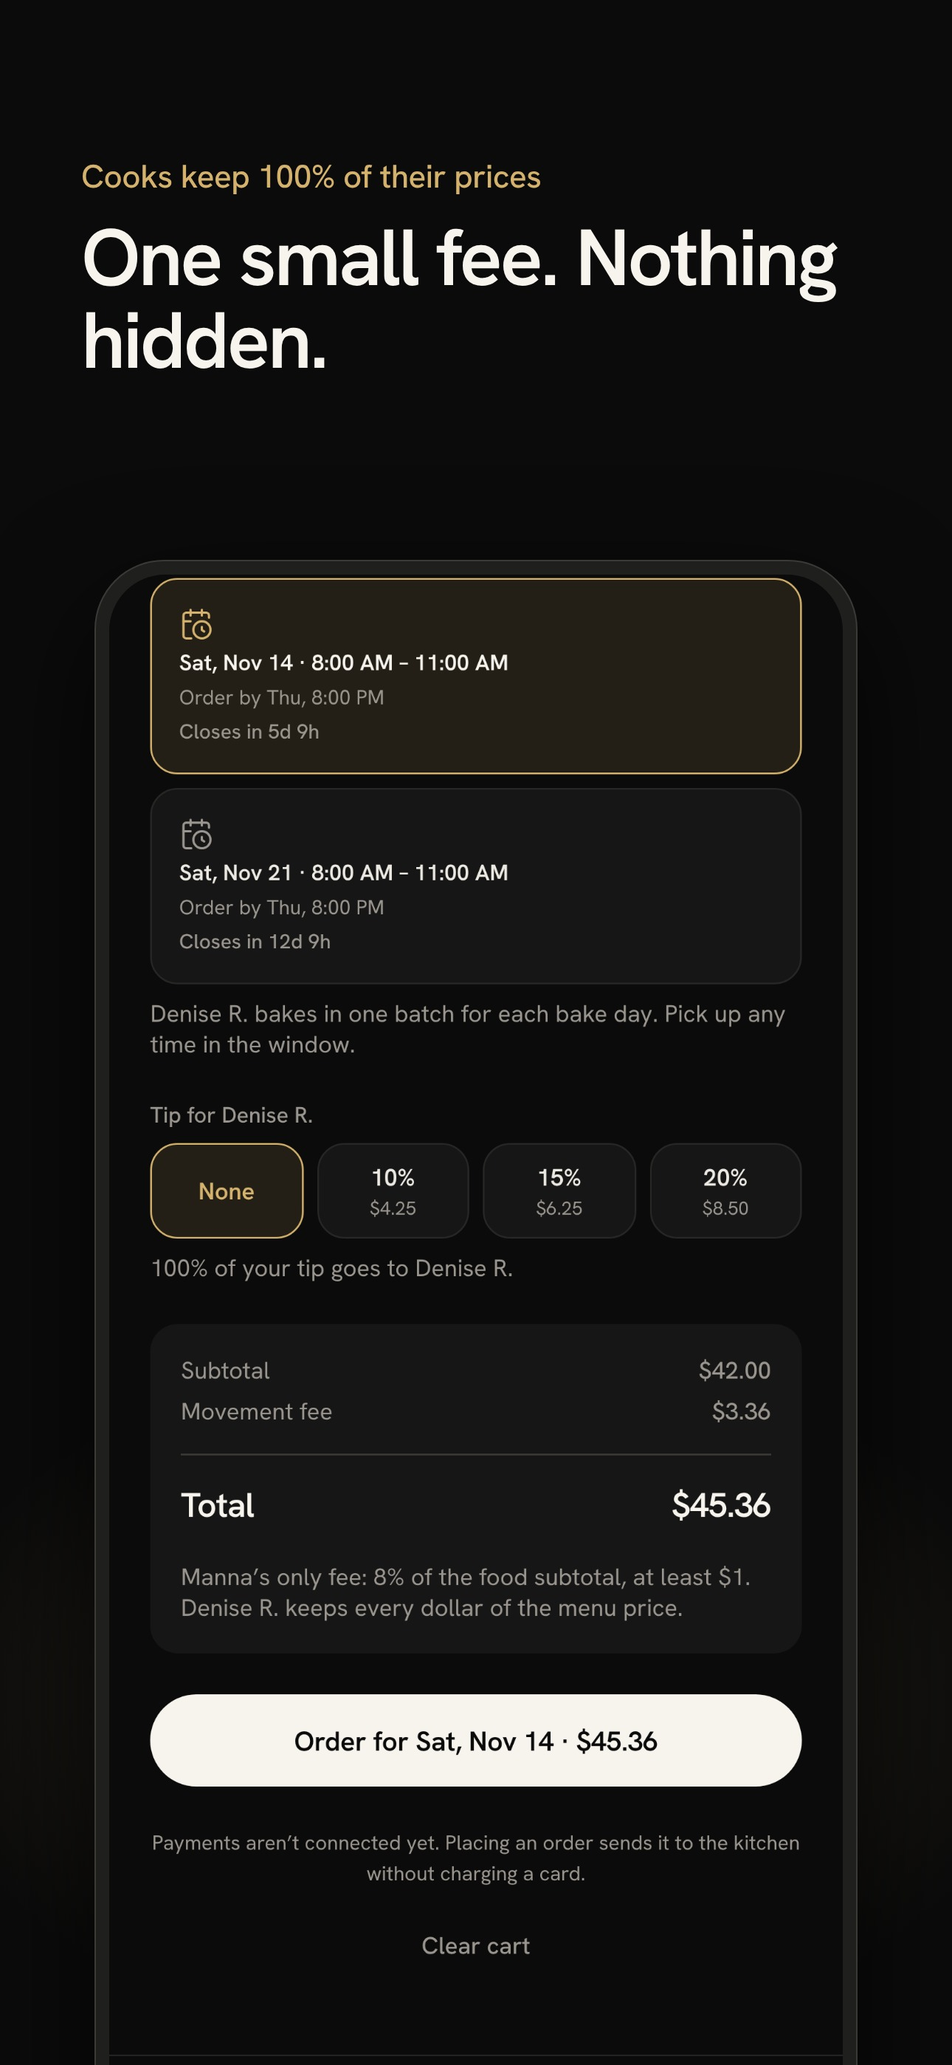
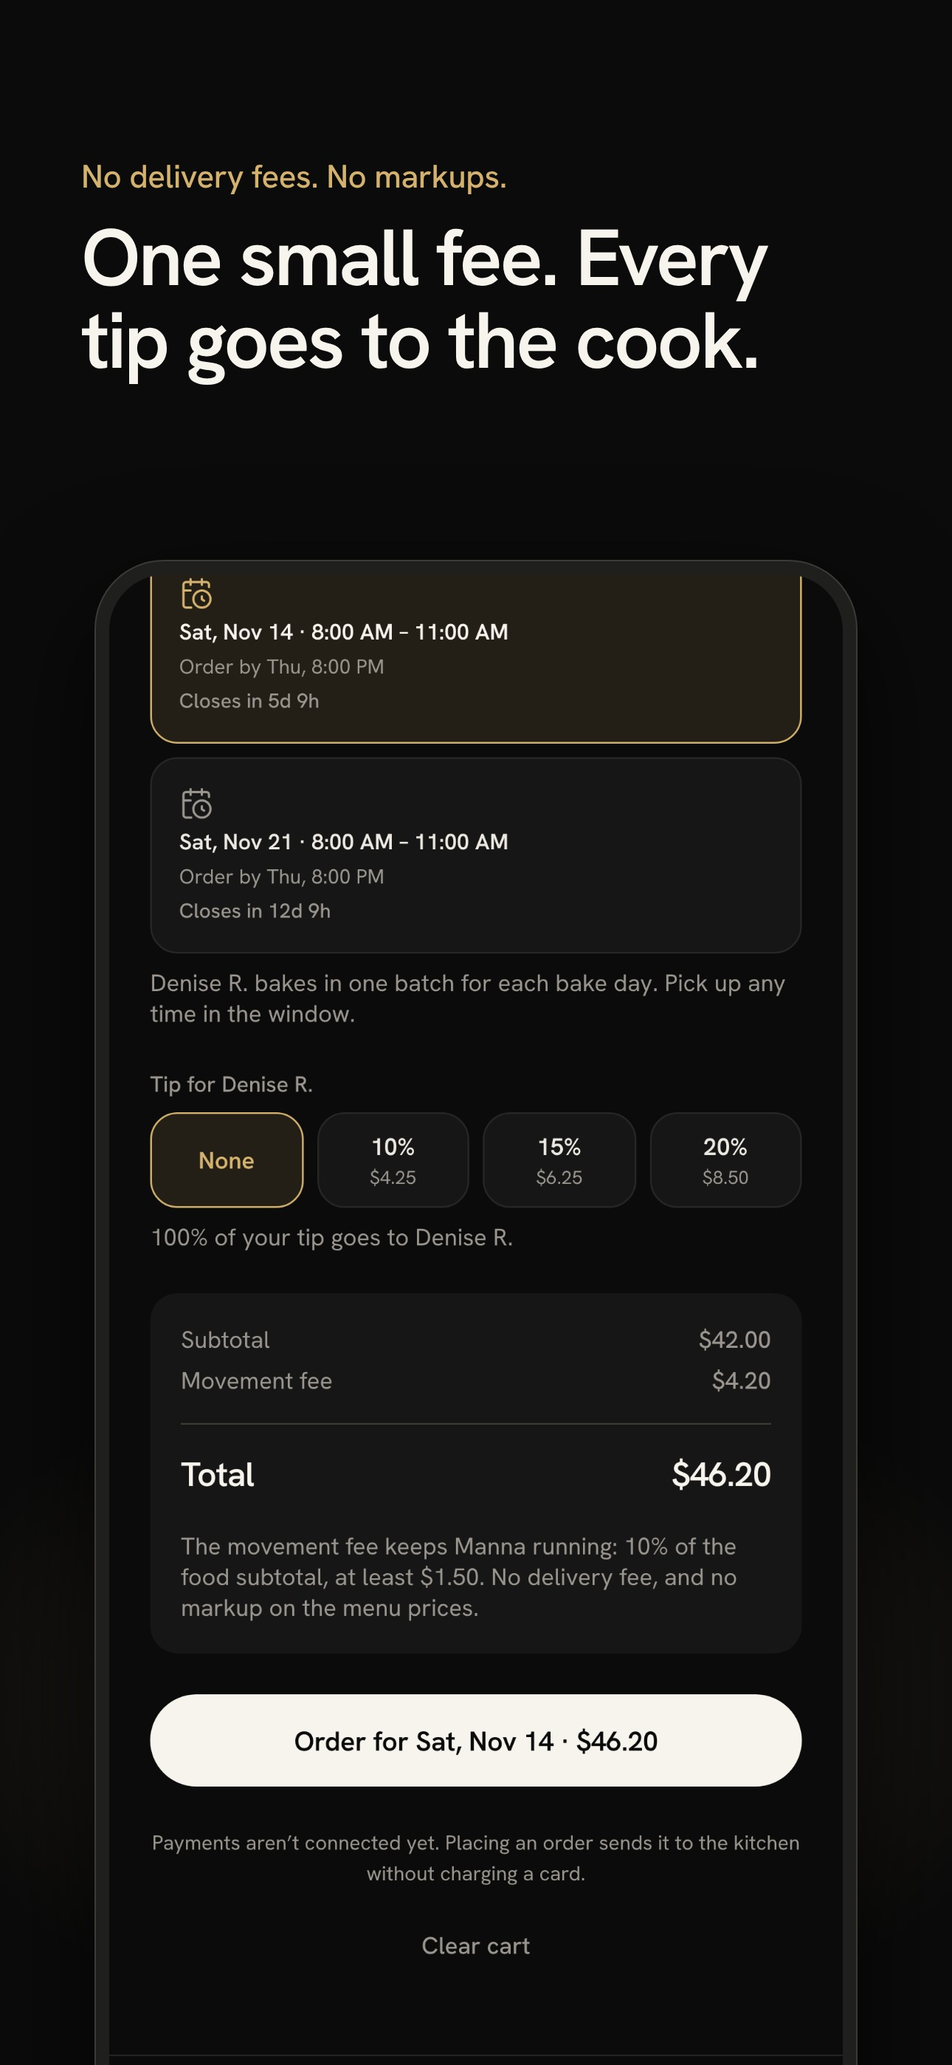
Set launch fees: 10% movement fee and a 5% kitchen fee
Customers pay 10% of the food (at least $1.50) and kitchens pay 5% of
their food sales, with no kitchen fee for a founding kitchen's first
3 months. Tips are never charged. Orders record the kitchen fee, the
cook's dashboard, earnings chart and order cards show what they receive,
and the publish step, terms, Pro page ($15 a month) and docs explain it.
The database computes both fees and tracks when a kitchen went live.

Claude-Session: https://claude.ai/code/session_011wALiCWwyWzSnWzUUk7f3D

diff --git a/src/lib/pricing.ts b/src/lib/pricing.ts
@@ -1,21 +1,67 @@
-import type { Cart, MenuItem, OrderLine } from '@/types';
+import { formatMonthDay } from './orders';
+import type { Cart, MenuItem, Order, OrderLine, Restaurant } from '@/types';
 
 /**
- * Manna's only fee: 8% of the food subtotal, at least $1, paid by the
- * customer. Card processing comes out of it, so kitchens keep 100% of their
- * menu prices. Orders are picked up, so there is no delivery fee.
- * Mirrors movement_fee() in the database.
+ * Manna's fees. Customers pay a movement fee at checkout (10% of the food,
+ * at least $1.50), and kitchens pay 5% of their food sales. Tips are never
+ * charged: every cent goes to the kitchen. Card processing comes out of
+ * Manna's share, and orders are picked up, so there is no delivery fee.
+ * Mirrors movement_fee() and kitchen_fee_rate() in the database.
  */
-export const MOVEMENT_FEE_RATE = 0.08;
-export const MOVEMENT_FEE_MIN_CENTS = 100;
+export const MOVEMENT_FEE_RATE = 0.1;
+export const MOVEMENT_FEE_MIN_CENTS = 150;
 
 export function movementFee(subtotalCents: number): number {
   if (subtotalCents <= 0) return 0;
   return Math.max(Math.round(subtotalCents * MOVEMENT_FEE_RATE), MOVEMENT_FEE_MIN_CENTS);
 }
 
-/** "8%, at least $1", for checkout and the terms. */
-export const MOVEMENT_FEE_TERMS = '8% of the food subtotal, at least $1';
+/** "10%, at least $1.50", for checkout and the terms. */
+export const MOVEMENT_FEE_TERMS = '10% of the food subtotal, at least $1.50';
+
+/** Manna's share of a kitchen's food sales. */
+export const KITCHEN_FEE_RATE = 0.05;
+/** Founding kitchens pay no kitchen fee for their first months on Manna. */
+export const FOUNDING_FEE_FREE_MONTHS = 3;
+
+/** Manna Pro, the optional plan for cooks, once it opens. Sold on the web, not in the app. */
+export const PRO_PRICE_CENTS = 1500;
+
+/** "5% of food sales", for the cook's screens and the terms. */
+export const KITCHEN_FEE_TERMS = '5% of food sales';
+
+/** When a founding kitchen starts paying the kitchen fee, or null if it isn't founding. */
+export function feeFreeUntil(r: Pick<Restaurant, 'founding' | 'createdAt'>): Date | null {
+  if (!r.founding) return null;
+  const until = new Date(r.createdAt);
+  until.setUTCMonth(until.getUTCMonth() + FOUNDING_FEE_FREE_MONTHS);
+  return until;
+}
+
+/** The kitchen fee rate for an order placed at `at`. */
+export function kitchenFeeRate(r: Pick<Restaurant, 'founding' | 'createdAt'>, at: Date): number {
+  const until = feeFreeUntil(r);
+  return until && at < until ? 0 : KITCHEN_FEE_RATE;
+}
+
+export function kitchenFee(subtotalCents: number, rate: number): number {
+  if (subtotalCents <= 0 || rate <= 0) return 0;
+  return Math.round(subtotalCents * rate);
+}
+
+/** How the kitchen fee applies to this kitchen right now, in a line for the cook. */
+export function kitchenFeeNote(r: Pick<Restaurant, 'founding' | 'createdAt'>, now: Date): string {
+  const until = feeFreeUntil(r);
+  if (until && now < until) {
+    return `As a founding kitchen, you pay no Manna fee until ${formatMonthDay(until.toISOString())}. After that, Manna keeps ${KITCHEN_FEE_TERMS}. Tips are always yours.`;
+  }
+  return `Shown after Manna’s ${KITCHEN_FEE_TERMS}. Tips are always yours.`;
+}
+
+/** What the kitchen receives for an order: the food and the tip, less the kitchen fee. */
+export function kitchenPayout(order: Pick<Order, 'subtotalCents' | 'tipCents' | 'kitchenFeeCents'>): number {
+  return order.subtotalCents + (order.tipCents ?? 0) - (order.kitchenFeeCents ?? 0);
+}
 
 export interface CartTotals {
   lines: OrderLine[];

diff --git a/src/__tests__/lib.test.ts b/src/__tests__/lib.test.ts
@@ -4,7 +4,15 @@ import { browseRestaurants, cuisineTags, DEFAULT_FILTERS, isNew } from '@/lib/br
 import { formatTime, isOpenAt, TIME_SLOTS, toMinutes } from '@/lib/hours';
 import { normalizeMenuItem } from '@/lib/migrate';
 import { formatCents, parsePriceToCents } from '@/lib/money';
-import { computeCartTotals, movementFee } from '@/lib/pricing';
+import {
+  computeCartTotals,
+  feeFreeUntil,
+  kitchenFee,
+  kitchenFeeNote,
+  kitchenFeeRate,
+  kitchenPayout,
+  movementFee,
+} from '@/lib/pricing';
 import { blankRestaurant, currentStep, isInformationComplete } from '@/lib/setup';
 import { formatUsPhone, isValidEmail, isValidUsPhone, isValidZip } from '@/lib/validation';
 import type { MenuItem, Restaurant } from '@/types';
@@ -42,17 +50,38 @@ describe('pricing', () => {
     );
     expect(totals.itemCount).toBe(3);
     expect(totals.subtotalCents).toBe(2550);
-    // One movement fee, 8% with a $1 minimum, and no delivery fee: orders are picked up.
-    expect(totals.movementFeeCents).toBe(204);
-    expect(totals.totalCents).toBe(2550 + 204);
+    // One movement fee, 10% with a $1.50 minimum, and no delivery fee: orders are picked up.
+    expect(totals.movementFeeCents).toBe(255);
+    expect(totals.totalCents).toBe(2550 + 255);
   });
 
-  it('charges at least $1 on small orders', () => {
+  it('charges customers at least $1.50 on small orders', () => {
     expect(movementFee(0)).toBe(0);
-    expect(movementFee(800)).toBe(100);
-    expect(movementFee(1250)).toBe(100);
-    expect(movementFee(1300)).toBe(104);
-    expect(movementFee(4000)).toBe(320);
+    expect(movementFee(800)).toBe(150);
+    expect(movementFee(1500)).toBe(150);
+    expect(movementFee(1600)).toBe(160);
+    expect(movementFee(3000)).toBe(300);
+  });
+
+  it('takes 5% of the food from the kitchen, never from tips', () => {
+    const kitchen = { founding: false, createdAt: '2026-01-01T12:00:00Z' };
+    const rate = kitchenFeeRate(kitchen, new Date('2026-11-10T12:00:00Z'));
+    expect(rate).toBe(0.05);
+    expect(kitchenFee(3000, rate)).toBe(150);
+    expect(kitchenFee(0, rate)).toBe(0);
+    expect(kitchenPayout({ subtotalCents: 3000, tipCents: 450, kitchenFeeCents: 150 })).toBe(3300);
+    // Orders from before the kitchen fee paid the kitchen in full.
+    expect(kitchenPayout({ subtotalCents: 3000, tipCents: 450 })).toBe(3450);
+    expect(kitchenFeeNote(kitchen, new Date())).toContain('5% of food sales');
+  });
+
+  it('gives founding kitchens their first 3 months without a kitchen fee', () => {
+    const founding = { founding: true, createdAt: '2026-11-01T12:00:00Z' };
+    expect(feeFreeUntil(founding)?.toISOString()).toBe('2027-02-01T12:00:00.000Z');
+    expect(kitchenFeeRate(founding, new Date('2027-01-31T12:00:00Z'))).toBe(0);
+    expect(kitchenFeeRate(founding, new Date('2027-02-01T12:00:00Z'))).toBe(0.05);
+    expect(feeFreeUntil({ founding: false, createdAt: founding.createdAt })).toBeNull();
+    expect(kitchenFeeNote(founding, new Date('2026-12-01T12:00:00Z'))).toMatch(/no Manna fee until/);
   });
 
   it('skips unavailable and unknown items, and charges nothing for an empty cart', () => {

diff --git a/src/app/chef/dashboard.tsx b/src/app/chef/dashboard.tsx
@@ -32,6 +32,7 @@ import { firstOrderSteps, type FirstOrderStep } from '@/lib/launch';
 import { formatTime, hoursOn, isOpenAt, nextOpening, WEEKDAYS } from '@/lib/hours';
 import { prepList, weeklyEarnings } from '@/lib/insights';
 import { formatCents } from '@/lib/money';
+import { kitchenFeeNote, kitchenPayout } from '@/lib/pricing';
 import { chatState } from '@/lib/order-chat';
 import { canPostOrderUpdate, ORDER_UPDATE_MAX, orderUpdates } from '@/lib/order-updates';
 import { formatClock, isActive, KITCHEN_ACTION_LABEL } from '@/lib/orders';
@@ -63,7 +64,7 @@ export default function ChefDashboard() {
   const today = new Date().toDateString();
   const todaysSales = orders
     .filter((o) => o.status === 'completed' && new Date(o.createdAt).toDateString() === today)
-    .reduce((sum, o) => sum + o.subtotalCents + (o.tipCents ?? 0), 0);
+    .reduce((sum, o) => sum + kitchenPayout(o), 0);
   const inHours = isOpenAt(restaurant, new Date());
   const prep = prepList(state.orders, restaurant.id);
   const week = weeklyEarnings(state.orders, restaurant.id, new Date());
@@ -225,7 +226,7 @@ export default function ChefDashboard() {
           </View>
         ) : null}
         {active.map((order) => (
-          <OrderCard key={order.id} order={order} title={order.customerName || 'Customer'}>
+          <OrderCard key={order.id} order={order} title={order.customerName || 'Customer'} amountCents={kitchenPayout(order)}>
             {order.arrivedAt ? (
               <View style={styles.arrived}>
                 <Icon name="map-marker-outline" size={16} color={colors.bg} />
@@ -294,7 +295,7 @@ export default function ChefDashboard() {
           </>
         ) : null}
 
-        {isNew ? null : <WeeklyChart days={week} />}
+        {isNew ? null : <WeeklyChart days={week} note={kitchenFeeNote(restaurant, now)} />}
 
         <SectionHeader title="Reviews" />
         {reviews.length ? (
@@ -363,7 +364,7 @@ export default function ChefDashboard() {
           <>
             <SectionHeader title="Past orders" />
             {past.map((order) => (
-              <OrderCard compact key={order.id} order={order} title={order.customerName || 'Customer'} />
+              <OrderCard compact key={order.id} order={order} title={order.customerName || 'Customer'} amountCents={kitchenPayout(order)} />
             ))}
           </>
         ) : null}

diff --git a/src/data/legal.ts b/src/data/legal.ts
@@ -1,4 +1,4 @@
-import { MOVEMENT_FEE_TERMS } from '@/lib/pricing';
+import { FOUNDING_FEE_FREE_MONTHS, KITCHEN_FEE_TERMS, MOVEMENT_FEE_TERMS } from '@/lib/pricing';
 
 /**
  * Manna's privacy policy and terms of service, shown in the app.
@@ -122,7 +122,7 @@ export const TERMS_OF_SERVICE: LegalDocument = {
       heading: 'Ordering',
       body: [
         '- Kitchens set their own prices, menus, hours and daily limits.',
-        `- Manna adds a movement fee at checkout: ${MOVEMENT_FEE_TERMS}. Kitchens keep 100% of their prices, and tips go entirely to the kitchen.`,
+        `- Manna adds a movement fee at checkout: ${MOVEMENT_FEE_TERMS}. Menu prices are the kitchen’s own, with no markup, and tips go entirely to the kitchen.`,
         '- Orders are for pickup at the time you choose. The kitchen shares its pickup address once it accepts your order.',
         '- If a kitchen declines your order or cancels a bake day, you are not charged, or you get a full refund.',
         '- You can cancel an order until the kitchen accepts it.',
@@ -147,7 +147,8 @@ export const TERMS_OF_SERVICE: LegalDocument = {
         '- List accurate ingredients, allergens, prices and photos of your own food.',
         '- Post only photos and videos you took or have the right to share, and don’t show other people without their permission. Your pickup spot photo is shared only with customers whose orders you accept.',
         '- Honor the orders you accept, and keep customers’ information private.',
-        '- Payouts and any fees are described in the app before you publish your kitchen.',
+        `- Opening a kitchen is free. Manna keeps a kitchen fee of ${KITCHEN_FEE_TERMS} (the food subtotal of each completed order) from your payout. Tips are never charged. Founding kitchens pay no kitchen fee for their first ${FOUNDING_FEE_FREE_MONTHS} months after opening.`,
+        '- Manna will tell you at least 30 days before any change to the kitchen fee. Manna Pro is optional and billed separately.',
       ],
     },
     {

diff --git a/src/components/chef-insights.tsx b/src/components/chef-insights.tsx
@@ -9,7 +9,7 @@ import { Eyebrow } from './ui';
 const CHART_HEIGHT = 96;
 
 /** Seven slim gold bars of completed sales, today highlighted. */
-export function WeeklyChart({ days }: { days: DayEarnings[] }) {
+export function WeeklyChart({ days, note }: { days: DayEarnings[]; note?: string }) {
   const total = days.reduce((sum, d) => sum + d.cents, 0);
   const max = Math.max(...days.map((d) => d.cents), 1);
   const best = days.reduce((a, b) => (b.cents > a.cents ? b : a), days[0]);
@@ -17,7 +17,7 @@ export function WeeklyChart({ days }: { days: DayEarnings[] }) {
     <View
       style={styles.card}
       accessible
-      accessibilityLabel={`This week: ${formatCents(total)} in completed sales. ${days
+      accessibilityLabel={`This week: ${formatCents(total)} you received from completed orders. ${days
         .map((d) => `${d.label} ${formatCents(d.cents)}`)
         .join(', ')}`}>
       <View style={styles.header}>
@@ -49,6 +49,7 @@ export function WeeklyChart({ days }: { days: DayEarnings[] }) {
           );
         })}
       </View>
+      {note ? <Text style={styles.note}>{note}</Text> : null}
     </View>
   );
 }
@@ -88,6 +89,7 @@ const styles = StyleSheet.create({
   header: { flexDirection: 'row', justifyContent: 'space-between', alignItems: 'flex-end' },
   total: { fontFamily: fonts.display, fontSize: 26, color: colors.ivory, fontVariant: ['tabular-nums'] },
   best: { fontFamily: fonts.medium, fontSize: 12, color: colors.textMuted },
+  note: { fontFamily: fonts.body, fontSize: 12, lineHeight: 17, color: colors.textFaint },
   chart: { flexDirection: 'row', gap: spacing.sm, alignItems: 'flex-end' },
   col: { flex: 1, alignItems: 'center', gap: 6 },
   barTrack: { height: CHART_HEIGHT, justifyContent: 'flex-end', width: '100%', alignItems: 'center' },

diff --git a/store/capture-chef.js b/store/capture-chef.js
@@ -23,8 +23,8 @@ const NOW = new Date('2026-11-07T10:40:00-05:00');
     ];
     const order = (id, name, lines, status, minsAgo, history) => {
       const sub = lines.reduce((s, l) => s + l.priceCents * l.quantity, 0);
-      const fee = Math.round(sub * 0.05);
-      return { id, customerId: 'c-' + id, customerName: name, restaurantId: 'r1', restaurantName: 'Susie’s Sweets', lines, subtotalCents: sub, movementFeeCents: fee, tipCents: Math.round(sub * 0.15), totalCents: sub + fee + Math.round(sub * 0.15), pickupAddress: '5 Willow Way, Orlando', status, statusHistory: history.map(([s, m]) => ({ status: s, at: t(m) })), chefNote: '', customerNote: '', createdAt: t(minsAgo), estimatedReadyAt: t(minsAgo - 35), scheduledFor: null };
+      const fee = Math.max(Math.round(sub * 0.1), 150);
+      return { id, customerId: 'c-' + id, customerName: name, restaurantId: 'r1', restaurantName: 'Susie’s Sweets', lines, subtotalCents: sub, movementFeeCents: fee, kitchenFeeCents: Math.round(sub * 0.05), tipCents: Math.round(sub * 0.15), totalCents: sub + fee + Math.round(sub * 0.15), pickupAddress: '5 Willow Way, Orlando', status, statusHistory: history.map(([s, m]) => ({ status: s, at: t(m) })), chefNote: '', customerNote: '', createdAt: t(minsAgo), estimatedReadyAt: t(minsAgo - 35), scheduledFor: null };
     };
     const pc = (q) => ({ itemId: 'pc', name: 'Peach Cobbler', priceCents: 2200, quantity: q });
     const pd = (q) => ({ itemId: 'pd', name: 'Earl Grey Pound Cake', priceCents: 1800, quantity: q });

diff --git a/src/app/foodie/cart.tsx b/src/app/foodie/cart.tsx
@@ -25,7 +25,7 @@ import { allergenConflicts } from '@/lib/diet';
 import { remainingToday } from '@/lib/limits';
 import { formatCents } from '@/lib/money';
 import { estimateReadyAt } from '@/lib/orders';
-import { computeCartTotals, MOVEMENT_FEE_TERMS, TIP_RATES, tipFor } from '@/lib/pricing';
+import { computeCartTotals, kitchenFee, kitchenFeeRate, MOVEMENT_FEE_TERMS, TIP_RATES, tipFor } from '@/lib/pricing';
 import { bakeDayDate, formatBakeDay, formatCutoff, openBakeDays } from '@/lib/bake-days';
 import { isBakeDayKitchen } from '@/lib/ordering';
 import { availableSlots, formatSlot } from '@/lib/schedule';
@@ -123,6 +123,7 @@ export default function Cart() {
         lines: totals.lines,
         subtotalCents: totals.subtotalCents,
         movementFeeCents: totals.movementFeeCents,
+        kitchenFeeCents: kitchenFee(totals.subtotalCents, kitchenFeeRate(restaurant, placedAt)),
         tipCents: tip,
         totalCents: grandTotal,
         pickupAddress: [restaurant.address, restaurant.city].filter(Boolean).join(', '),
@@ -302,7 +303,7 @@ export default function Cart() {
           totalCents={grandTotal}
           footer={
             <Text style={styles.movement}>
-              Manna’s only fee: {MOVEMENT_FEE_TERMS}. {chefFirst} keeps every dollar of the menu price.
+              The movement fee keeps Manna running: {MOVEMENT_FEE_TERMS}. No delivery fee, and no markup on the menu prices.
             </Text>
           }
         />

diff --git a/src/lib/insights.ts b/src/lib/insights.ts
@@ -2,6 +2,7 @@ import type { CartLine, MenuItem, Order, Restaurant } from '@/types';
 
 import { remainingToday } from './limits';
 import { endedWithoutSale } from './orders';
+import { kitchenPayout } from './pricing';
 
 /* ---------- Order again ---------- */
 
@@ -111,7 +112,7 @@ export interface DayEarnings {
 const DAY_LABELS = ['Sun', 'Mon', 'Tue', 'Wed', 'Thu', 'Fri', 'Sat'];
 
 /**
- * The chef's earnings (food subtotal plus tips, before Manna's fees) for the last 7 days,
+ * The chef's earnings (food and tips, after the kitchen fee) for the last 7 days,
  * oldest first. Only completed orders count.
  */
 export function weeklyEarnings(orders: Order[], restaurantId: string, now: Date): DayEarnings[] {
@@ -127,7 +128,7 @@ export function weeklyEarnings(orders: Order[], restaurantId: string, now: Date)
     const created = new Date(order.createdAt);
     const createdDay = new Date(created.getFullYear(), created.getMonth(), created.getDate());
     const diff = Math.round((start.getTime() - createdDay.getTime()) / 86_400_000);
-    if (diff >= 0 && diff <= 6) days[6 - diff].cents += order.subtotalCents + (order.tipCents ?? 0);
+    if (diff >= 0 && diff <= 6) days[6 - diff].cents += kitchenPayout(order);
   }
   return days;
 }

diff --git a/src/app/chef/setup/preview.tsx b/src/app/chef/setup/preview.tsx
@@ -7,10 +7,14 @@ import { Body, GoldButton, SectionTitle, TextLink } from '@/components/ui';
 import { isOpenState, stateName } from '@/data/regions';
 import { resetTo } from '@/lib/navigation';
 import { LAW_ATTESTATION } from '@/lib/kitchen-kind';
+import { KITCHEN_FEE_TERMS } from '@/lib/pricing';
 import { completedSteps, isReadyToOpen, SETUP_STEPS } from '@/lib/setup';
 import { useMyRestaurant, useStore } from '@/state/store';
 import { colors, fonts, spacing } from '@/theme';
 import { Icon } from '@/components/icon';
+
+/** What opening costs, said before the cook opens (the terms promise this). */
+const OPENING_TERMS = `Free to open. Manna keeps ${KITCHEN_FEE_TERMS}, and tips are always yours.`;
 
 const STEPS_TO_CHECK = SETUP_STEPS.filter((s) => s.key !== 'preview');
 const STEP_ROUTE = {
@@ -54,6 +58,7 @@ export default function Preview() {
         ) : (
           <View style={{ gap: spacing.sm }}>
             {ready ? null : <Text style={styles.remaining}>{remaining}</Text>}
+            <Text style={styles.remaining}>{OPENING_TERMS}</Text>
             <GoldButton title="Open my kitchen" chevron disabled={!ready} onPress={publish} />
           </View>
         )

diff --git a/src/app/chef/pro.tsx b/src/app/chef/pro.tsx
@@ -5,6 +5,7 @@ import { Icon } from '@/components/icon';
 import { BackButton, Body, Eyebrow, GoldButton, Heading, Screen } from '@/components/ui';
 import { FREE_FEATURES, hasFoundingProOffer, PRO_FEATURES } from '@/data/pro';
 import * as haptics from '@/lib/haptics';
+import { PRO_PRICE_CENTS } from '@/lib/pricing';
 import { useMyRestaurant, useStore } from '@/state/store';
 import { colors, fonts, radius, spacing } from '@/theme';
 
@@ -27,8 +28,8 @@ export default function MannaPro() {
           <Eyebrow>Manna Pro · coming soon</Eyebrow>
           <Heading size={32}>Sell more, with less work</Heading>
           <Body muted>
-            Selling on Manna stays free: your storefront, orders and payouts never cost you anything. Pro is an
-            optional plan with tools for busy kitchens.
+            Your storefront, orders and payouts come with every kitchen. Pro is an optional plan with tools for
+            busy kitchens, for ${PRO_PRICE_CENTS / 100} a month once it opens.
           </Body>
         </View>
 

diff --git a/src/lib/db/mappers.ts b/src/lib/db/mappers.ts
@@ -192,7 +192,8 @@ export function restaurantFromRow(row: RestaurantRow, photoUrl: PhotoUrl, extras
     rating: averageRating(row.rating_sum, row.rating_count),
     ratingCount: row.rating_count,
     hasOffer: row.has_offer,
-    createdAt: row.created_at,
+    // On Manna since it went live: new-kitchen labels and founding fee months count from here.
+    createdAt: row.live_since ?? row.created_at,
     acceptingOrders: row.accepting_orders,
     menu,
     documents: (extras.documents ?? []).map(documentFromRow),
@@ -268,6 +269,7 @@ export function orderFromRow(row: OrderWithChildren, privateUrl?: (path: string)
     })),
     subtotalCents: row.subtotal_cents,
     movementFeeCents: row.movement_fee_cents,
+    kitchenFeeCents: row.kitchen_fee_cents,
     tipCents: row.tip_cents,
     totalCents: row.total_cents,
     pickupAddress: row.pickup_address,

diff --git a/src/components/order-card.tsx b/src/components/order-card.tsx
@@ -28,10 +28,13 @@ export function OrderCard({
   title,
   children,
   compact = false,
+  amountCents,
 }: {
   order: Order;
   title: string;
   children?: ReactNode;
+  /** The amount shown on the card. Customers see what they paid; kitchens see their payout. */
+  amountCents?: number;
   /**
    * The customer's own list: dishes on one line and no order note (they wrote
    * it). Kitchens get the full card, since the note and each line matter to them.
@@ -51,7 +54,7 @@ export function OrderCard({
             {title}
           </Text>
         </View>
-        <Text style={styles.total}>{formatCents(order.totalCents)}</Text>
+        <Text style={styles.total}>{formatCents(amountCents ?? order.totalCents)}</Text>
       </View>
       {active ? <OrderProgress order={order} /> : null}
       {order.scheduledFor && active ? (
